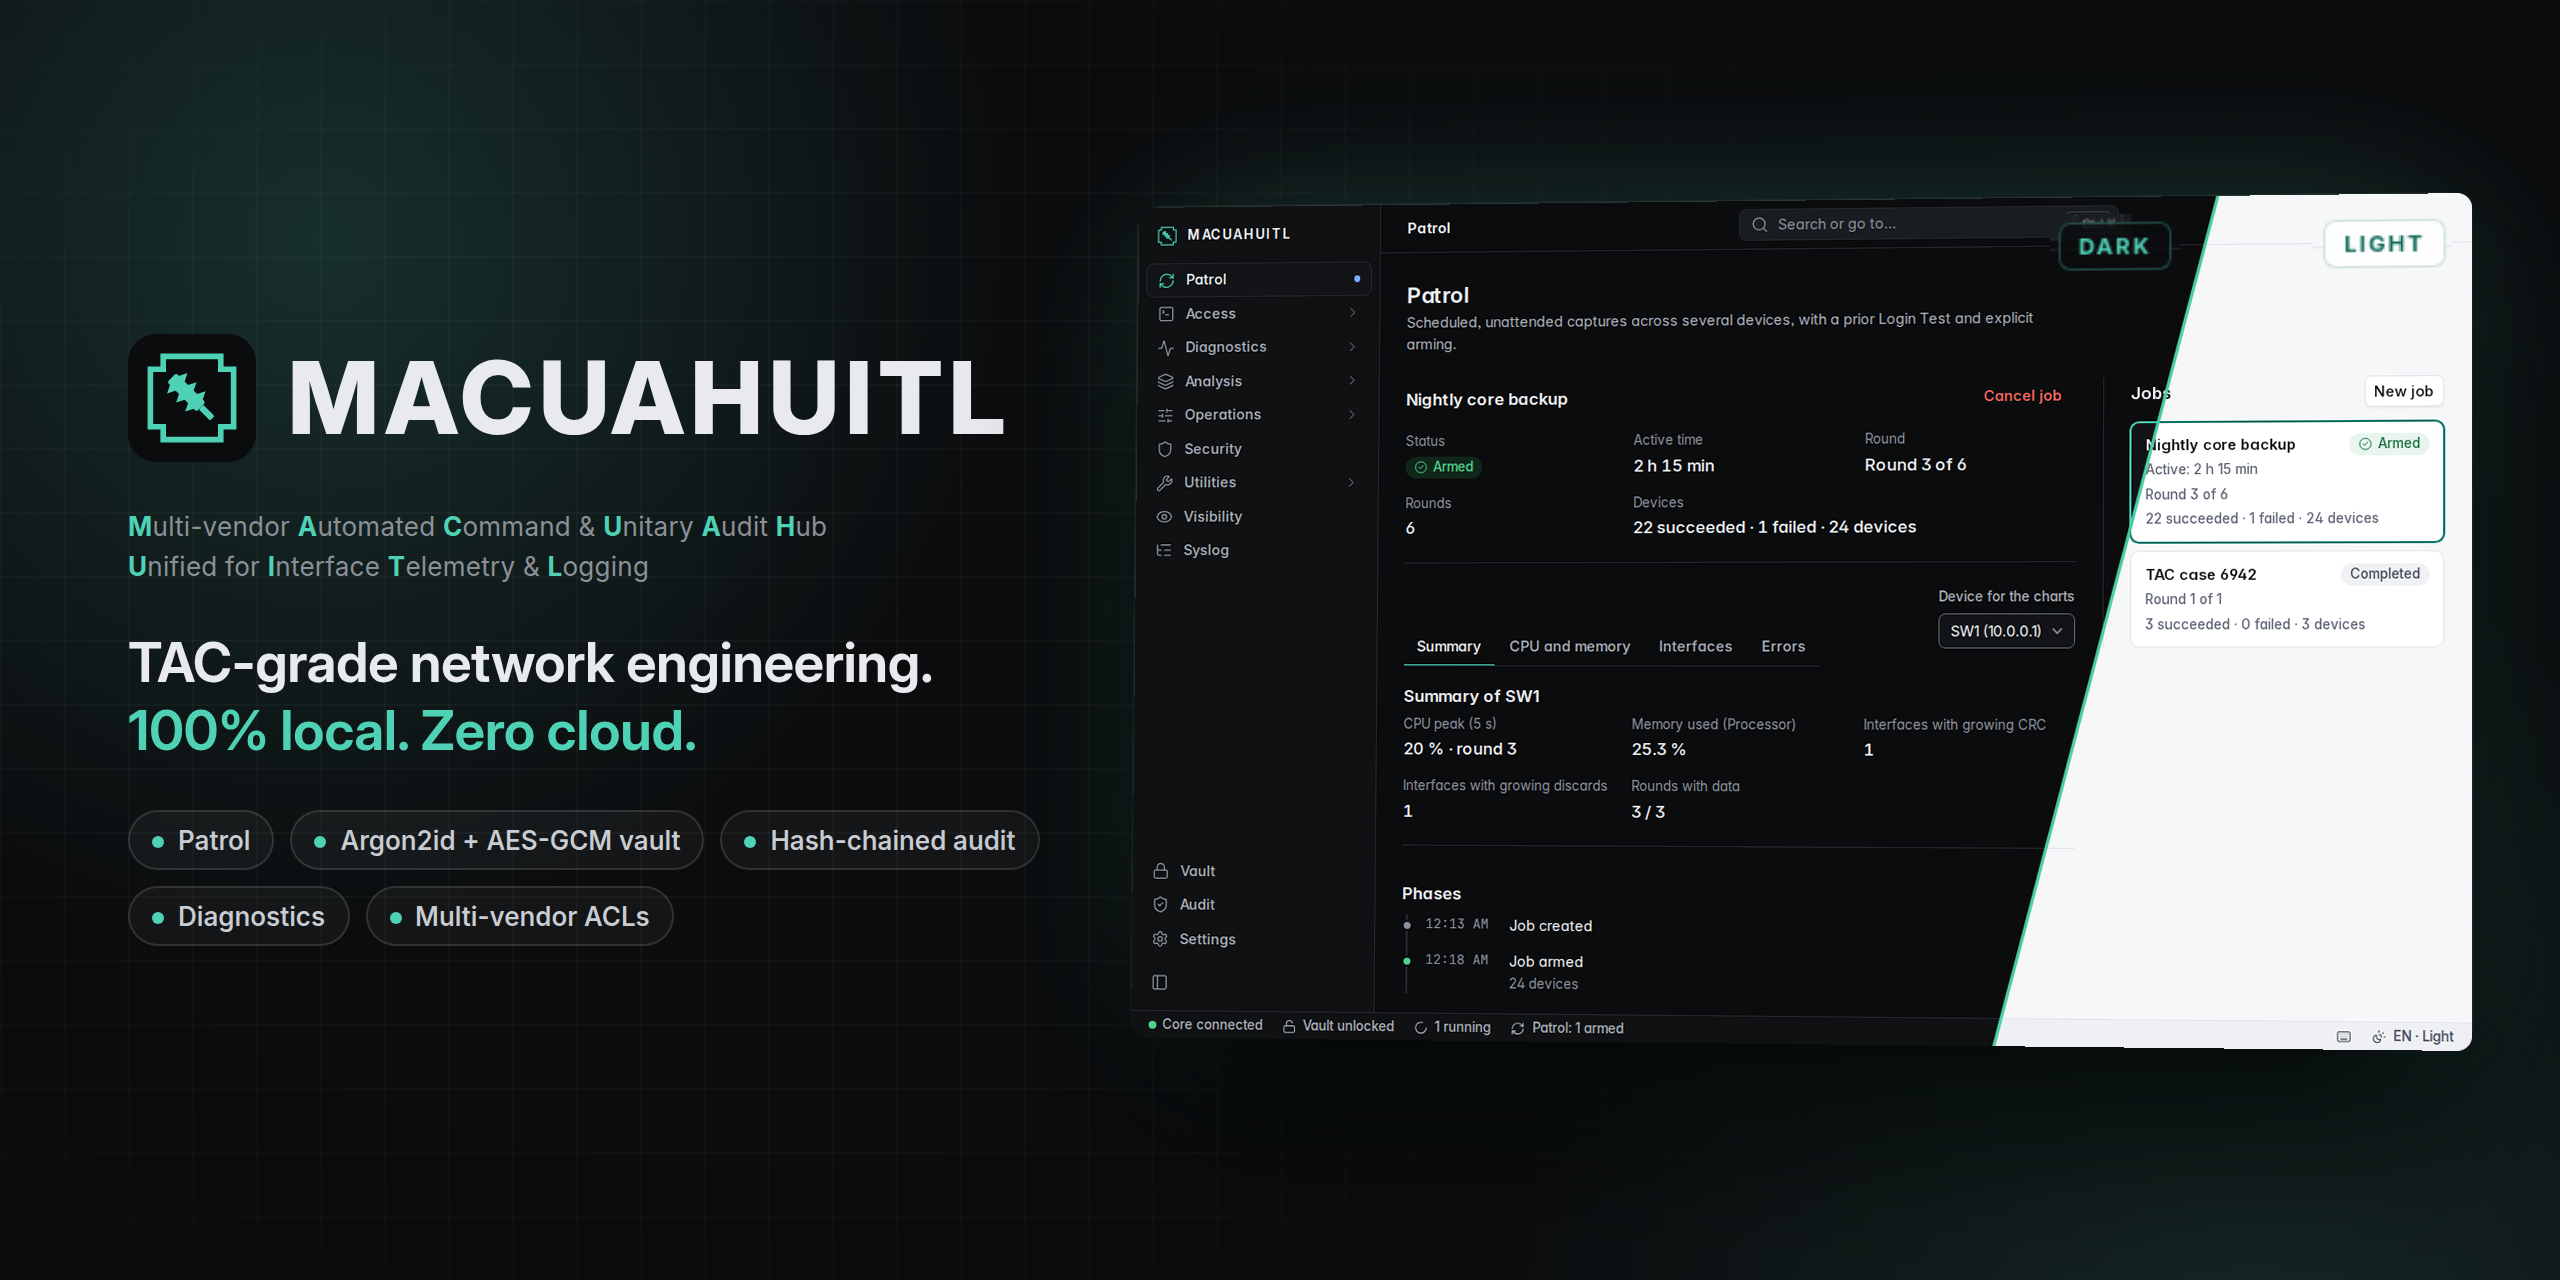
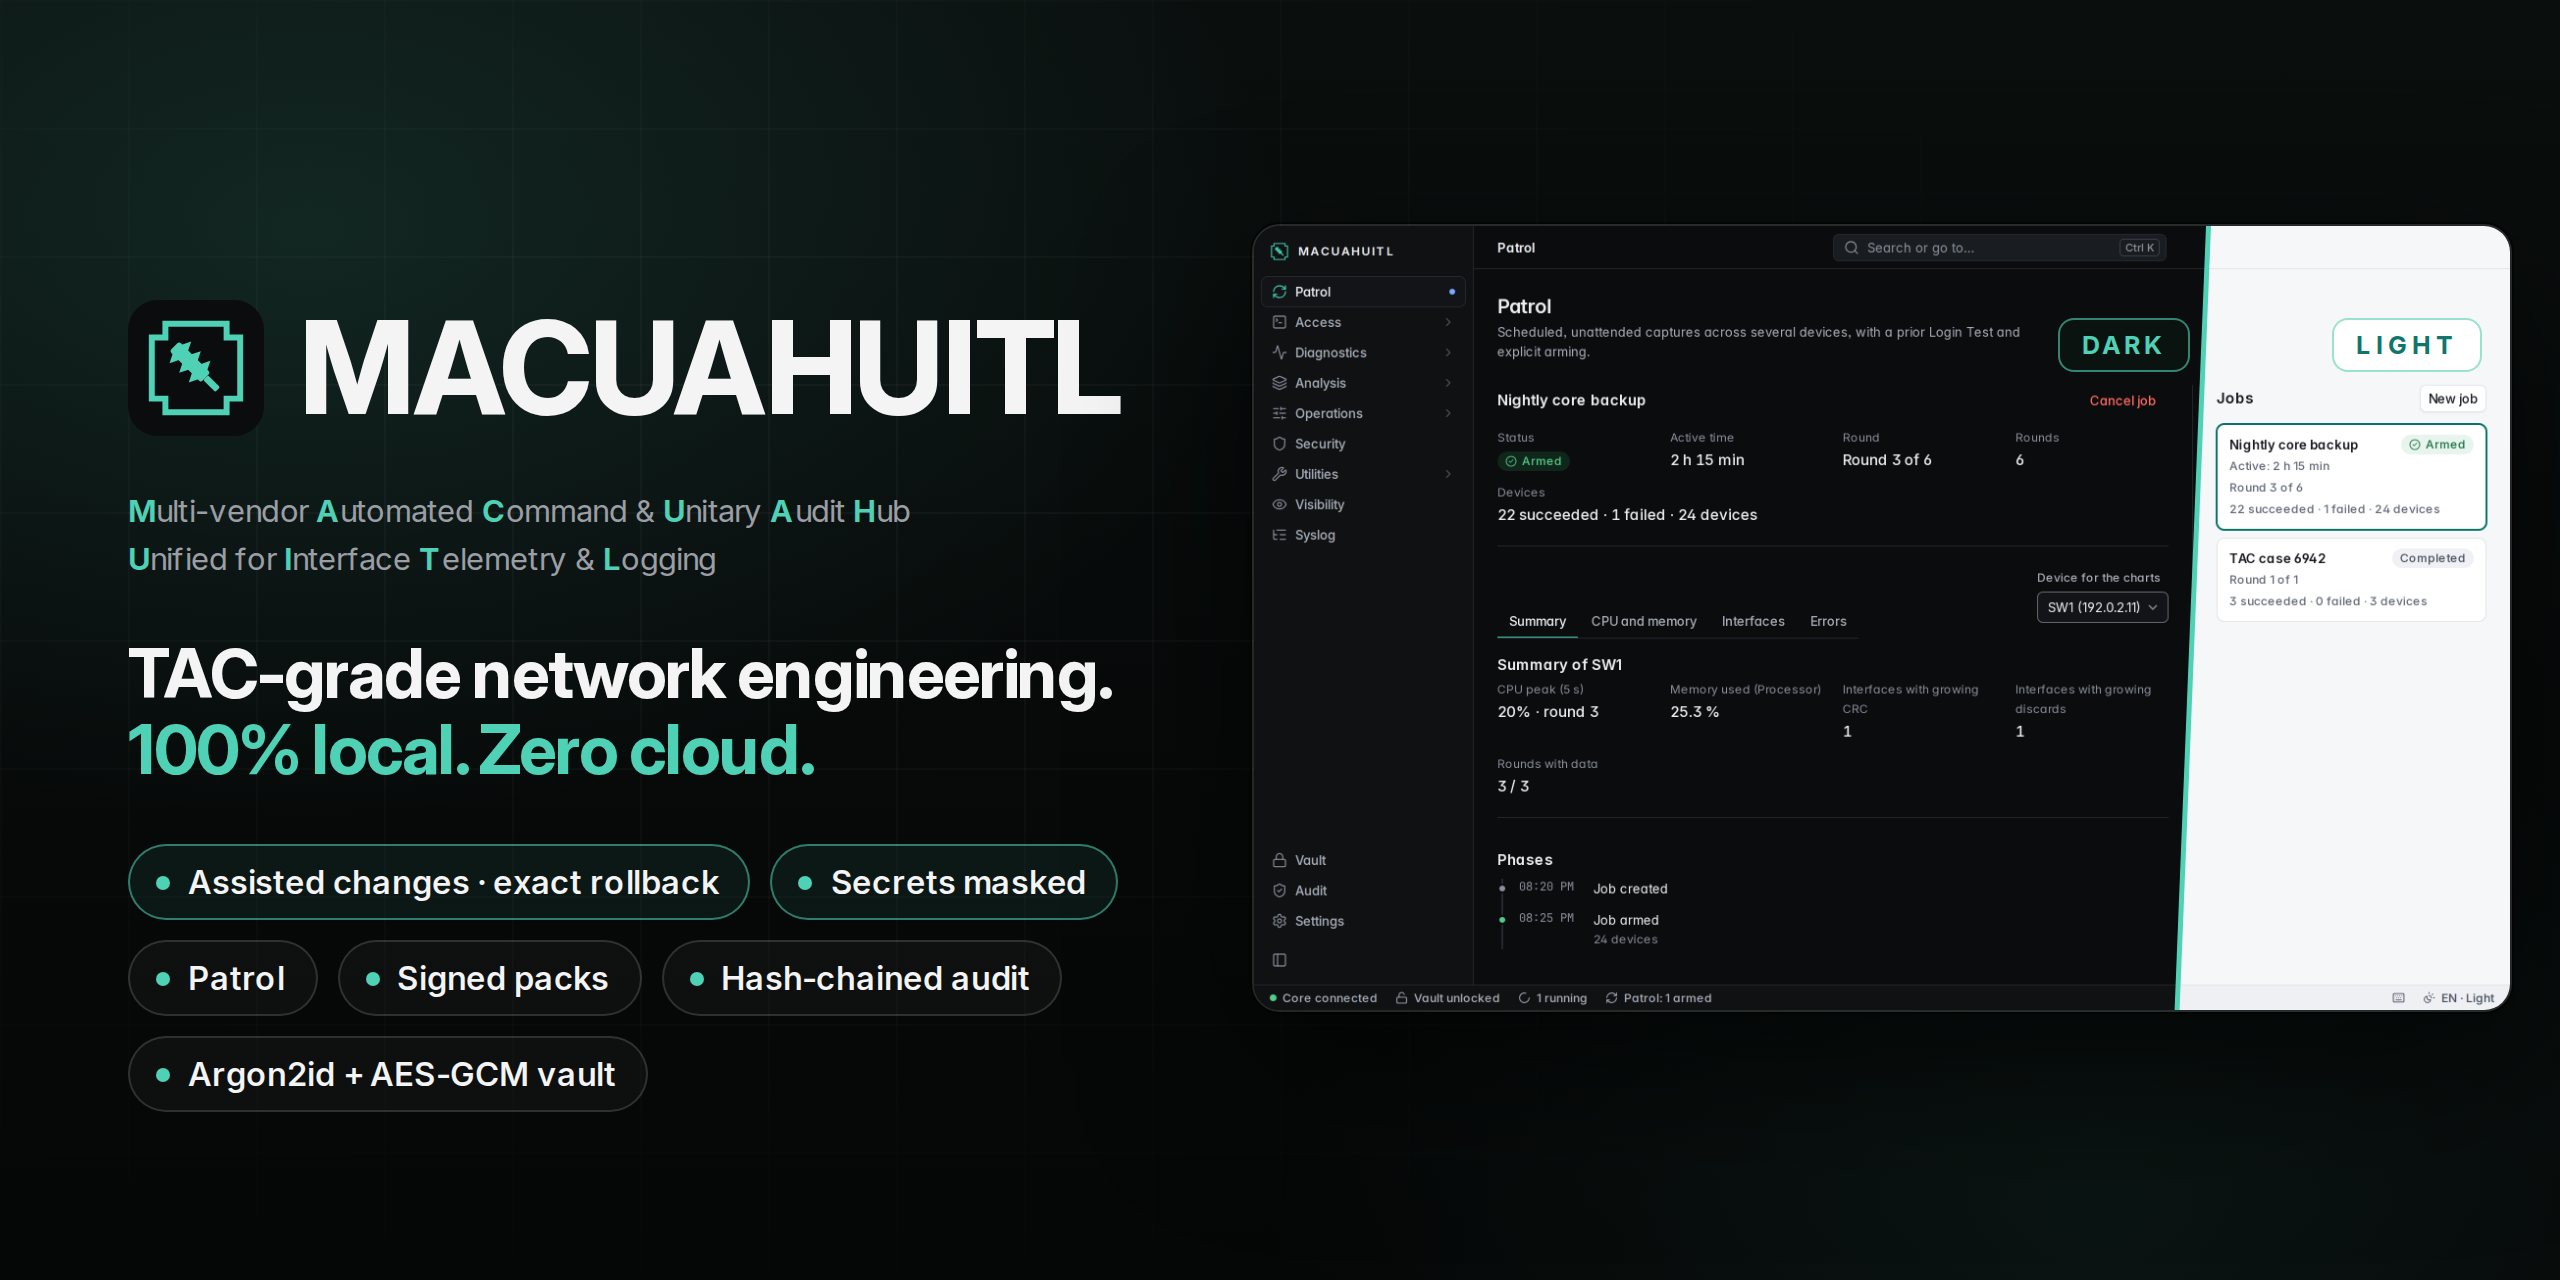
Portada y vista social desde una fuente: social.html + capturas de la vista previa con IPs de documentación
- docs/assets/pro/src/social.html (logo, acrónimo, «TAC-grade network engineering. 100% local. Zero cloud.», seis etiquetas con «Assisted changes · exact rollback» y «Secrets masked», captura dividida oscuro/claro) y capture.cjs (Patrol en inglés desde la vista previa, hora fija).
- render.cjs también genera docs/assets/portada.png (2560×1280) y falla si pasa de 1 MB, si falta una captura o si no carga la fuente.
- Vista previa: el selector de equipo y las corridas usan 192.0.2.x; asa y wlc-9800 en 1.0.2.
- README de la carpeta con los pasos, también para subirla en Settings → Social preview.

diff --git a/ui/frontend/src/preview/data.ts b/ui/frontend/src/preview/data.ts
@@ -4,6 +4,7 @@ import { fakeScripts } from "../modules/scripts/fake";
 import type { ScriptItem } from "../modules/scripts/api";
 import { fakeInventory, sampleDevices, sampleHostFields, sampleHostsImport } from "../modules/inventory/fake";
 import { samplePlaybooks } from "../modules/patrol/fake";
+import { sampleMetrics } from "../modules/metrics/fake";
 import { sampleRestore } from "../modules/backup/fake";
 import { fakeSettings } from "../modules/settings/fake";
 import type { Host } from "../modules/inventory/api";
@@ -22,6 +23,8 @@ export function sample(): Partial<CoreAPI> {
     hostsImportFormat: async () => ({ fields: hostFieldsEn, maxRows: 1000, maxBytes: 5 << 20 }),
     hostsImportTemplate: async (format: "csv" | "json") => hostsTemplate(format),
     listPlaybooks: async () => playbooksEn,
+    // Documentation addresses (RFC 5737) for screenshots; the test double keeps its own.
+    jobMetrics: async () => ({ ...sampleMetrics, devices: sampleMetrics.devices.map((d) => ({ ...d, address: "192.0.2.11" })) }),
     packList: async () => packsEn,
     packInspect: async () => ({ pack: packsEn[3], playbookIds: sdaIds.map((i) => "sda/" + i), scriptIds: sdaIds.map((i) => "lib-sda-" + i), replacedVersion: "", sha256: "a".repeat(64), displaced: [] as string[] }),
     pickPath: async () => "/home/user/Downloads/oom-sda-1.0.0.mpack",
@@ -38,9 +41,9 @@ export function sample(): Partial<CoreAPI> {
       { id: "c5", label: "WAN edge", username: "wanops", hasEnable: true, hasSshKey: false },
     ],
     getRun: async () => [
-      { target: "10.0.0.1:22", state: "DEVICE_STATE_COMPLETED", detail: "" },
-      { target: "10.0.0.2:22", state: "DEVICE_STATE_RUNNING", detail: "" },
-      { target: "10.0.0.3:22", state: "DEVICE_STATE_FAILED", detail: "timed out" },
+      { target: "192.0.2.11:22", state: "DEVICE_STATE_COMPLETED", detail: "" },
+      { target: "192.0.2.12:22", state: "DEVICE_STATE_RUNNING", detail: "" },
+      { target: "192.0.2.13:22", state: "DEVICE_STATE_FAILED", detail: "timed out" },
     ],
[1 lines of base64/hex data omitted]
     listJobs: async () => [
@@ -265,11 +268,11 @@ const packsEn: PackInfo[] = [
   pack("oom/ios-xe", "1.1.1", "IOS-XE, TAC diagnostics", "Read-only layer 1, 2, 3, platform, services, VPN and router WAN playbooks for IOS-XE, with their script library.", "ios-xe", 69),
   pack("oom/cat9k", "1.0.0", "Catalyst 9000, TAC diagnostics", "Read-only playbooks for Catalyst 9200/9300/9400/9500/9600 running IOS-XE 17.x - platform, stack and StackWise Virtual, PoE, ASIC, CPU and punt, security, services, L1, L2, L3 and TAC cases; the per-interface and per-MAC ones ask for that datum.", "cat9k", 55),
   pack("oom/sda", "1.0.0", "SD-Access, TAC diagnostics", "Read-only playbooks for the SD-Access fabric on Catalyst 9000 running IOS-XE 17.x - LISP, fabric (roles, VNs, access tunnels, CTS/SGT), edge, border and TAC cases; the per-endpoint ones ask for its MAC, IP or interface.", "sda", 26),
-  pack("oom/wlc-9800", "1.0.0", "Catalyst 9800, TAC diagnostics", "Read-only playbooks for the Catalyst 9800 wireless controller (appliance, 9800-CL and EWC on 9100/9120 APs) with IOS-XE 17.x - controller, APs, clients, RF, WLANs, security, mobility and TAC cases; the per-client and per-AP ones ask for the MAC or name.", "wlc-9800", 47),
+  pack("oom/wlc-9800", "1.0.2", "Catalyst 9800, TAC diagnostics", "Read-only playbooks for the Catalyst 9800 wireless controller (appliance, 9800-CL and EWC on 9100/9120 APs) with IOS-XE 17.x - controller, APs, clients, RF, WLANs, security, mobility and TAC cases; the per-client and per-AP ones ask for the MAC or name.", "wlc-9800", 47),
   pack("oom/wlc-aireos", "1.0.1", "AireOS · Cisco wireless controllers, TAC diagnostics", "Read-only playbooks for Cisco AireOS wireless controllers 8.5 to 8.10 (2504, 3504, 5508, 5520, 8540, vWLC) - platform and health, APs (CAPWAP join, inventory, radios), clients, WLANs, RF/RRM and CleanAir, mobility and anchors, security (RADIUS, TACACS, rogues, ACLs), interfaces and ports, services and TAC cases; the per-AP, per-client and per-WLAN ones ask for that datum.", "wlc-aireos", 64),
   pack("oom/nx-os", "1.0.1", "Nexus NX-OS, TAC diagnostics", "Read-only playbooks for Cisco Nexus switches running NX-OS (9000, 7000, 5000/6000, 3000) - platform, interfaces, L2 and vPC, VXLAN/EVPN, routing, FEX, security, services and TAC cases; the per-interface, per-IP and per-MAC ones ask for that datum.", "nx-os", 68),
   pack("oom/aci", "1.0.1", "Cisco ACI, leaf and spine", "Read-only playbooks for Nexus 9000 leaf and spine switches in ACI mode from their CLI - fabric (IS-IS, VTEP, MP-BGP), endpoints (EPM), contracts (zoning-rule), vPC, interfaces, L3Out (BGP, OSPF, BFD) and TAC cases; the per-IP, per-MAC, per-VRF, per-VNID and per-interface ones ask for that datum.", "nx-os", 45),
-  pack("oom/asa", "1.0.0", "Cisco ASA, TAC diagnostics", "Read-only playbooks for Cisco ASA 9.x (ASAv, 5500-X, Firepower with ASA image), in single and multiple context mode - platform, interfaces, firewall (connections, NAT, ACLs, inspection), VPN, failover and cluster, contexts, routing, security, services and TAC cases; the per-interface, per-IP and per-peer ones ask for that datum.", "asa", 68),
+  pack("oom/asa", "1.0.2", "Cisco ASA, TAC diagnostics", "Read-only playbooks for Cisco ASA 9.x (ASAv, 5500-X, Firepower with ASA image), in single and multiple context mode - platform, interfaces, firewall (connections, NAT, ACLs, inspection), VPN, failover and cluster, contexts, routing, security, services and TAC cases; the per-interface, per-IP and per-peer ones ask for that datum.", "asa", 68),
   pack("oom/ftd", "1.0.0", "Cisco Secure Firewall Threat Defense (FTD), TAC diagnostics", "Read-only playbooks for Cisco Secure Firewall Threat Defense (FTD 7.x, managed by FMC or FDM) from its normal CLI - platform and health, interfaces, firewall (connections, NAT, lina ACLs, access control policy), Snort, VPN, high availability and cluster, management with the FMC, routing, services and TAC cases; the per-interface, per-IP and per-peer ones ask for that datum.", "ftd", 64),
   pack("oom/ise", "1.0.0", "ISE · Cisco Identity Services Engine, TAC diagnostics", "Read-only playbooks for Cisco ISE 3.x nodes (PAN, MnT, PSN and pxGrid) from their ADE-OS CLI - version and patches, application process status, CPU, memory and disks, backups, interfaces, routes, ports, DNS and NTP, services (RADIUS, TACACS+, pxGrid, certificates, Active Directory, replication), application logs and TAC cases; the connectivity one asks for the target IP.", "ise", 36),
 ];

diff --git a/docs/assets/pro/src/social.html b/docs/assets/pro/src/social.html
@@ -1,0 +1,71 @@
+<!doctype html>
+<!-- Fuente de docs/assets/portada.png (portada del README y vista social de GitHub, 2560×1280). Se cambia este archivo,
+     no el PNG; las capturas de shots/ salen de capture.cjs y la imagen de render.cjs (ver README.md aquí). -->
+<html lang="en">
+<head>
+<meta charset="utf-8">
+<title>social</title>
+<style>
+  @font-face { font-family: "Inter"; src: url("../../../../ui/frontend/src/assets/fonts/InterVariable-latin.woff2") format("woff2"); font-weight: 100 900; }
+  :root { --ink: #f4f4f5; --dim: #9b9ea4; --teal: #4fd1b5; --line: rgba(255, 255, 255, 0.09); }
+  * { box-sizing: border-box; margin: 0; }
+  html, body { width: 1280px; height: 640px; overflow: hidden; color: var(--ink); font-family: "Inter", sans-serif; -webkit-font-smoothing: antialiased; }
+  body {
+    position: relative;
+    background:
+      radial-gradient(ellipse 700px 420px at 12% 18%, rgba(79, 209, 181, 0.13), transparent 70%),
+      radial-gradient(ellipse 600px 380px at 82% 95%, rgba(79, 209, 181, 0.07), transparent 70%),
+      linear-gradient(180deg, #0a0f0e, #050606);
+  }
+  body::before {
+    content: ""; position: absolute; inset: 0; pointer-events: none;
+    background-image: linear-gradient(var(--line) 1px, transparent 1px), linear-gradient(90deg, var(--line) 1px, transparent 1px);
+    background-size: 64px 64px; opacity: 0.35;
+    mask-image: radial-gradient(ellipse 900px 520px at 30% 40%, #000 20%, transparent 80%);
+  }
+  .left { position: absolute; left: 64px; top: 150px; width: 520px; }
+  .brand { display: flex; align-items: center; gap: 18px; }
+  .brand img { width: 68px; height: 68px; }
+  .brand h1 { font-size: 64px; font-weight: 750; letter-spacing: -0.01em; line-height: 1; }
+  .acr { margin-top: 26px; color: var(--dim); font-size: 15.5px; line-height: 1.55; letter-spacing: 0.005em; }
+  .acr b { color: var(--teal); font-weight: 650; }
+  .claim { margin-top: 26px; font-size: 34px; font-weight: 720; letter-spacing: -0.03em; line-height: 1.12; }
+  .claim span { display: block; color: var(--teal); }
+  .tags { padding: 0; margin-top: 28px; display: flex; flex-wrap: wrap; gap: 10px; width: 540px; }
+  .tags li { list-style: none; display: inline-flex; align-items: center; gap: 9px; padding: 8px 15px 8px 13px; border: 1px solid rgba(255, 255, 255, 0.14);
+    border-radius: 999px; background: rgba(255, 255, 255, 0.035); font-size: 16.5px; font-weight: 560; letter-spacing: -0.005em; white-space: nowrap; }
+  .tags li::before { content: ""; width: 7px; height: 7px; border-radius: 50%; background: var(--teal); }
+  .tags li.key { border-color: rgba(79, 209, 181, 0.55); background: rgba(79, 209, 181, 0.08); }
+  .shot { position: absolute; left: 626px; top: 112px; width: 630px; height: 394px; border-radius: 14px; overflow: hidden;
+    border: 1px solid rgba(255, 255, 255, 0.12); box-shadow: 0 30px 80px rgba(0, 0, 0, 0.6), 0 0 0 1px rgba(0, 0, 0, 0.5); }
+  .shot img { position: absolute; inset: 0; width: 100%; height: 100%; }
+  .shot .light { clip-path: polygon(76% 0, 100% 0, 100% 100%, 73.5% 100%); }
+  .shot svg { position: absolute; inset: 0; }
+  .chip { position: absolute; top: 46px; padding: 5px 11px; border-radius: 8px; font-size: 12.5px; font-weight: 700; letter-spacing: 0.16em; }
+  .chip.d { right: 160px; color: var(--teal); background: #0b1311; border: 1px solid rgba(79, 209, 181, 0.6); }
+  .chip.l { right: 14px; color: #0f766e; background: #fff; border: 1px solid #99e2d1; }
+</style>
+</head>
+<body>
+  <section class="left">
+    <div class="brand"><img src="../../../../ui/frontend/public/favicon.svg" alt=""><h1>MACUAHUITL</h1></div>
+    <p class="acr"><b>M</b>ulti-vendor <b>A</b>utomated <b>C</b>ommand &amp; <b>U</b>nitary <b>A</b>udit <b>H</b>ub<br>
+      <b>U</b>nified for <b>I</b>nterface <b>T</b>elemetry &amp; <b>L</b>ogging</p>
+    <p class="claim">TAC-grade network engineering.<span>100% local. Zero cloud.</span></p>
+    <ul class="tags">
+      <li class="key">Assisted changes · exact rollback</li>
+      <li class="key">Secrets masked</li>
+      <li>Patrol</li>
+      <li>Signed packs</li>
+      <li>Hash-chained audit</li>
+      <li>Argon2id + AES-GCM vault</li>
+    </ul>
+  </section>
+  <figure class="shot">
+    <img src="shots/patrol-dark.png" alt="">
+    <img class="light" src="shots/patrol-light.png" alt="">
+    <svg viewBox="0 0 630 394" preserveAspectRatio="none"><line x1="478.8" y1="0" x2="463" y2="394" stroke="#4fd1b5" stroke-width="2.5"/></svg>
+    <span class="chip d">DARK</span><span class="chip l">LIGHT</span>
+  </figure>
+</body>
+</html>

diff --git a/docs/assets/pro/src/README.md b/docs/assets/pro/src/README.md
@@ -1,13 +1,38 @@
 # Fuentes de las imágenes de la portada
 
-`bento.html` es la fuente de `../bento.jpg` (2560×2084). No se retoca el JPG: se cambia el HTML y se vuelve a renderizar.
-El número de reglas de análisis no está escrito en el HTML: `render.cjs` lo cuenta en `internal/analyze/rules` y lo pasa
-a la página. `tools/packaging` falla si el README dice otro número que el de `analyze.DefaultRules`.
+No se retocan los PNG ni los JPG: se cambia el HTML y se vuelve a renderizar.
+
+| Imagen | Fuente | Qué es |
+|---|---|---|
+| `../bento.jpg` (2560×2084) | `bento.html` | El bloque «One app. The whole job.» del README. |
+| `../../portada.png` (2560×1280) | `social.html` + `shots/` | La portada del README y la vista social de GitHub (Settings → Social preview, menos de 1 MB). |
+
+El número de reglas de análisis no está escrito en el HTML: `render.cjs` lo cuenta en `internal/analyze/rules` y lo pasa a
+la página. `tools/packaging` falla si el README o el roadmap dicen otro número que el de `analyze.DefaultRules`.
+
+Las capturas de `shots/` salen de la vista previa de la UI (`ui/frontend/src/preview`, datos de ejemplo en inglés e IPs de
+documentación, RFC 5737) con la hora fija, así que se repiten igual.
 
 ```sh
 npm install --prefix /tmp/pw playwright-core@1.56.1        # una vez, fuera del repo (Apache-2.0)
 /tmp/pw/node_modules/.bin/playwright-core install chromium-headless-shell
-PLAYWRIGHT_CORE=/tmp/pw/node_modules/playwright-core node docs/assets/pro/src/render.cjs
+export PLAYWRIGHT_CORE=/tmp/pw/node_modules/playwright-core
+
+# Solo si cambió la UI: capturas nuevas desde la vista previa.
+(cd ui/frontend && npx vite --config vite.preview.config.ts --port 5199 --strictPort --host 127.0.0.1) &
+node docs/assets/pro/src/capture.cjs                         # shots/patrol-dark.png y shots/patrol-light.png
+kill %1
+
+node docs/assets/pro/src/render.cjs                          # bento.jpg y portada.png
 ```
 
-La fuente tipográfica es la de la app (`ui/frontend/src/assets/fonts`, OFL); el render falla si no carga.
+La fuente tipográfica y el logo son los de la app (`ui/frontend/src/assets/fonts`, OFL; `ui/frontend/public/favicon.svg`);
+el render falla si no cargan, si falta una captura o si `portada.png` pasa de 1 MB.
+
+## Subir la vista social a GitHub
+
+GitHub no la toma del repo: se sube a mano.
+
+1. En el repositorio: **Settings → General → Social preview → Edit → Upload an image…**
+2. Elige `docs/assets/portada.png`.
+3. Revisa la vista previa y guarda. La miniatura que muestran LinkedIn o Slack puede tardar en refrescarse por su caché.
